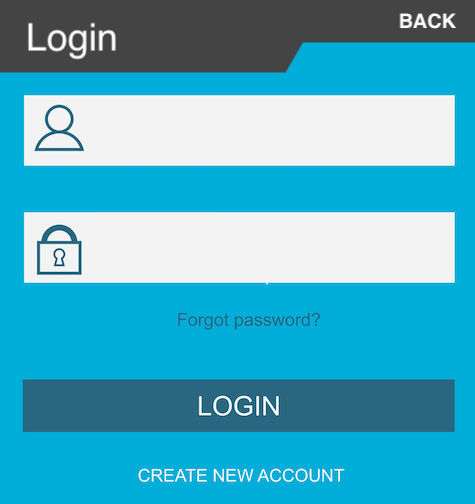
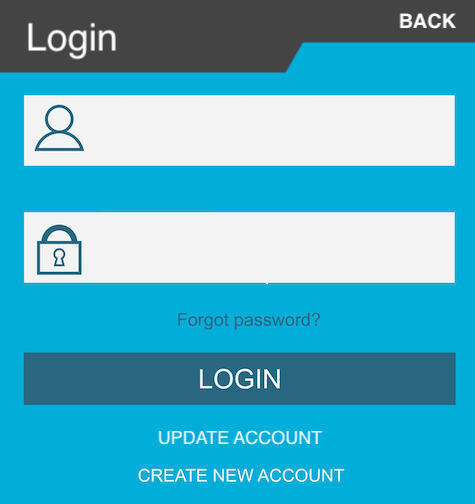
create update account menu, blit entity information on side of map

Changed region(s): [[0.0295, 0.6845, 0.9726, 0.8929]]

diff --git a/game_view.py b/game_view.py
@@ -56,13 +56,13 @@ def login_function():
     main_menu.disable()
     main_menu.reset(1)
 
-    email = pygame_textinput.TextInput()
+    username = pygame_textinput.TextInput()
     password = pygame_textinput.TextInput()
     login_view = pygame.image.load("images/menu/login-copy.png")
     surface.fill(COLOR_BACKGROUND)
     
 
-    selected = "email"
+    selected = "username"
     
     while True:
         # Clock tick
@@ -85,19 +85,29 @@ def login_function():
                 mouse_pos = pygame.mouse.get_pos()
                 print(mouse_pos)
                 if mouse_pos[0] in range(190,610) and mouse_pos[1] in range(148,210):
-                    selected = "email"
+                    selected = "username"
                 elif mouse_pos[0] in range(190,610) and mouse_pos[1] in range(266,322):
                     selected = "password"
                 elif mouse_pos[0] in range(300,530) and mouse_pos[1] in range(517,530):
+                    # create an account screen
                     create_new_account()
                     return
                 elif mouse_pos[0] in range(335,480) and mouse_pos[1] in range(360,375):
+                    # forget your password screen
                     forgot_password()
                     return
-                elif mouse_pos[0] in range(186,612) and mouse_pos[1] in range(430,477):
-                    login()
+                elif mouse_pos[0] in range(320,482) and mouse_pos[1] in range(477,490):
+                    # change your account info screen
+                    update_account()
+                    return
+                elif mouse_pos[0] in range(186,612) and mouse_pos[1] in range(400,450):
+                    # login
+                    if len(username.get_text()) < 1 or len(password.get_text()) < 1:
+                        break
+                    login(username = username.get_text(), password = password.get_text())
                     return
                 elif mouse_pos[0] in range(562,617) and mouse_pos[1] in range(62,77):
+                    # go back
                     main_menu.enable()
                     main_menu.mainloop(playevents)
                     return
@@ -109,16 +119,16 @@ def login_function():
                 #     surface.fill(COLOR_BACKGROUND)
 
         
-        if selected == "email":
-            email.update(playevents)   
+        if selected == "username":
+            username.update(playevents)   
         elif selected == "password":
             password.update(playevents, passProtect=True)
             
         surface.blit(login_view, ((WINDOW_SIZE[0] - login_view.get_size()[0]) / 2, (WINDOW_SIZE[1] - login_view.get_size()[1]) / 2))
-        if len(email.get_text()) >= 1:
-            surface.blit(email.get_surface(), (250,170))  
+        if len(username.get_text()) >= 1:
+            surface.blit(username.get_surface(), (250,170))  
         else:
-            surface.blit(MY_FONT.render('Email', 1, COLOR_BLACK), (250,160))  
+            surface.blit(MY_FONT.render('Username', 1, COLOR_BLACK), (250,160))  
         if len(password.get_text()) >= 1:
             surface.blit(password.get_surface(), (250,290))
         else:
@@ -167,9 +177,13 @@ def create_new_account():
                 elif mouse_pos[0] in range(190,610) and mouse_pos[1] in range(330,392):
                     selected = "password"
                 elif mouse_pos[0] in range(186,612) and mouse_pos[1] in range(430,477):
-                    login()
+                    # account creation
+                    if len(email.get_text()) < 1 or len(username.get_text()) < 1 or len(password.get_text()) < 1:
+                        break
+                    login(username = username.get_text(), email = email.get_text(), password = password.get_text())
                     return
                 elif mouse_pos[0] in range(562,617) and mouse_pos[1] in range(62,77):
+                    # go back
                     login_function()
                     return
         
@@ -220,9 +234,13 @@ def forgot_password():
                 mouse_pos = pygame.mouse.get_pos()
                 print(mouse_pos)
                 if mouse_pos[0] in range(186,612) and mouse_pos[1] in range(430,477):
-                    send_recovery_email()
+                    # recover email
+                    if len(email.get_text()) < 1:
+                        break
+                    send_recovery_email(email = email.get_text())
                     return
                 elif mouse_pos[0] in range(562,617) and mouse_pos[1] in range(62,77):
+                    # go back
                     login_function()
                     return
         
@@ -238,11 +256,94 @@ def forgot_password():
 
     return
 
+def update_account():
+    """
+    Create new account game function
+    
+    :return: None
+    """
 
-def login():
+    email = pygame_textinput.TextInput()
+    username = pygame_textinput.TextInput()
+    password = pygame_textinput.TextInput()
+    login_view = pygame.image.load("images/menu/update-account.png")
+    surface.fill(COLOR_BACKGROUND)
+
+    selected = "email"
+    
+    while True:
+        # Clock tick
+        clock.tick(60)
+
+        # Application events
+        playevents = pygame.event.get()
+
+        for e in playevents:
+            if e.type == QUIT:
+                exit()
+            elif e.type == KEYDOWN:
+                if e.key == K_ESCAPE and main_menu.is_disabled():
+                    login_function()
+                    return
+            elif e.type == MOUSEBUTTONDOWN:
+                mouse_pos = pygame.mouse.get_pos()
+                print(mouse_pos)
+                if mouse_pos[0] in range(190,610) and mouse_pos[1] in range(148,210):
+                    selected = "email"
+                elif mouse_pos[0] in range(190,610) and mouse_pos[1] in range(235,298):
+                    selected = "username"
+                elif mouse_pos[0] in range(190,610) and mouse_pos[1] in range(330,392):
+                    selected = "password"
+                elif mouse_pos[0] in range(186,612) and mouse_pos[1] in range(430,477):
+                    # update account
+                    if len(email.get_text()) < 1 or len(username.get_text()) < 1 or len(password.get_text()) < 1:
+                        break
+                    update_account_information(username = username.get_text(), email = email.get_text(), password = password.get_text())
+                    return
+                elif mouse_pos[0] in range(562,617) and mouse_pos[1] in range(62,77):
+                    # go back
+                    login_function()
+                    return
+        
+        if selected == "email":
+            email.update(playevents)   
+        elif selected == "username":
+            username.update(playevents)   
+        elif selected == "password":
+            password.update(playevents, passProtect=True)
+            
+        surface.blit(login_view, ((WINDOW_SIZE[0] - login_view.get_size()[0]) / 2, (WINDOW_SIZE[1] - login_view.get_size()[1]) / 2))
+        if len(email.get_text()) >= 1:
+            surface.blit(email.get_surface(), (250,170))  
+        else:
+            surface.blit(MY_FONT.render('Email', 1, COLOR_BLACK), (250,160))  
+        if len(username.get_text()) >= 1:
+            surface.blit(username.get_surface(), (250,257))  
+        else:
+            surface.blit(MY_FONT.render('Username', 1, COLOR_BLACK), (250,247))  
+        if len(password.get_text()) >= 1:
+            surface.blit(password.get_surface(), (250,352))
+        else:
+            surface.blit(MY_FONT.render('Password', 1, COLOR_BLACK), (250,342))  
+        pygame.display.flip()
+
     return
 
-def send_recovery_email():
+
+def login(username, password, email=None):
+    print("username", username)
+    print("email", email)
+    print("password", password)
+    return
+
+def update_account_information(username, password, email):
+    print("username", username)
+    print("email", email)
+    print("password", password)
+    return
+
+def send_recovery_email(email):
+    print("email", email)
     return
 
 def main_background():

diff --git a/tileset_basics.py b/tileset_basics.py
@@ -3,6 +3,8 @@ from pygame.locals import *
 from game_engine.map import Map
 import os
 import math
+import re
+
 
 # sources for examples:
 # http://usingpython.com/pygame-tilemaps/
@@ -17,12 +19,29 @@ class Entity:
         self.y = y
         self.name = name
         self.actions = actions
+        self.attributes = ["example attributes", "example 2", "example 3"]
+
+    def __str__(self):
+        return  "Entity:\nName: "+self.name+"\nwidth: "+str(self.width)+"\nheight: "+str(self.height)+"\nx: "+ str(self.x)+ "\ny: " + str(self.y) +"\nactions: "+str(self.actions)+"\nattributes: "+str(self.attributes)
+
+
+def offset_blit(x,y):
+    return (x+MAPOFFSET[0],y+MAPOFFSET[1])
 
 def which_tile(mousepos):
     return math.ceil(mousepos[1]/myMap.tilesize)-1, math.ceil(mousepos[0]/myMap.tilesize)-1
 
 def tile_location(size):
     return size[1]*myMap.tilesize, size[0]*myMap.tilesize
+
+def multi_line_blit(text):
+    label = []
+    text = re.split(',|\[|\]|\n',text)
+    for i in range(len(text)): 
+        label.append(MY_FONT.render(text[i], True, (255,255,255)))
+    for line in range(len(label)):
+        DISPLAYSURF.blit(label[line],(0,(line*label[line].get_height())))
+    return
 
 def make_popup(x, y, entity):
     global OLD_SURF
@@ -40,13 +59,17 @@ def make_popup(x, y, entity):
         if (local_width>width):
             width = local_width
     popupSurf = pygame.Surface((width+4,height*len(options)))
-    DISPLAYSURF.blit(popupSurf, (x,y))    
+    DISPLAYSURF.blit(popupSurf, offset_blit(x,y))    
     for i in range(len(textSurf)):
-        DISPLAYSURF.blit(textSurf[i], (x+2,y+(height*i)))
+        DISPLAYSURF.blit(textSurf[i], offset_blit(x+2,y+(height*i)))
 
     # draw rectangle surrounding the actual box
     left, top = tile_location((entity.x, entity.y))
+    left, top = offset_blit(left, top)
     pygame.draw.lines(DISPLAYSURF, (255,0,0), True, [(left, top), (left+entity.width*myMap.tilesize, top), (left+entity.width*myMap.tilesize, top+entity.height*myMap.tilesize), (left, top+entity.height*myMap.tilesize)], 3)
+
+    # entity information
+    multi_line_blit(str(entity))
 
     return (popupSurf.get_width(), popupSurf.get_height()), (x,y)
 
@@ -61,18 +84,20 @@ for p in pictures:
     textures[p] = pygame.image.load("images/textures/"+p)
 
 # create the map and add add textures to it
-myMap = Map(tilesize = 40, height = 15, width = 25)
+myMap = Map(tilesize = 50, height = 10, width = 18)
 
-# myMap.textures = [Map.Texture(0,0,1,1,"coal.png"),Map.Texture(5,5,2,2,"water.png"),Map.Texture(2,2,1,1,"rock.png"),Map.Texture(2,3,1,1,"rock.png")]
-myMap.textures = [Entity(0,0,1,1,"coal.png",["Attack","Defend"]),Entity(5,5,2,2,"water.png",["Attack","Defend"]),Entity(2,2,1,1,"rock.png",["Sit"]),Entity(2,3,1,1,"rock.png",["Defend"])]
+myMap.textures = [Map.Texture(3,3,1,1,"coal.png"),Map.Texture(3,4,1,1,"coal.png")]
+ENTITIES = [Entity(5,5,2,2,"water.png",["Attack","Defend"]),Entity(2,2,1,1,"rock.png",["Sit"]),Entity(2,3,1,1,"rock.png",["Defend"])]
+
 #example fog
-myMap.fogOfWar[12][15] = False
-myMap.fogOfWar[12][16] = False
-myMap.fogOfWar[13][15] = False
-myMap.fogOfWar[13][16] = False
+myMap.fogOfWar[8][15] = False
+myMap.fogOfWar[8][16] = False
+myMap.fogOfWar[9][15] = False
+myMap.fogOfWar[9][16] = False
 
 pygame.init()
-DISPLAYSURF = pygame.display.set_mode((myMap.width*myMap.tilesize, myMap.height*myMap.tilesize))
+DISPLAYSURF = pygame.display.set_mode((1300,750))
+MAPOFFSET = (200,0)
 
 # create the entire background
 greyImage = pygame.transform.scale(textures["grey.png"], (myMap.tilesize,myMap.tilesize))
@@ -80,14 +105,19 @@ fogImage = pygame.transform.scale(textures["fog.png"], (myMap.tilesize,myMap.til
 for rw in range(myMap.height):
     for cl in range(myMap.width):
         if myMap.fogOfWar[rw][cl]:
-            DISPLAYSURF.blit(greyImage, (cl*myMap.tilesize, rw*myMap.tilesize))
+            DISPLAYSURF.blit(greyImage, offset_blit(cl*myMap.tilesize, rw*myMap.tilesize))
         else: 
-            DISPLAYSURF.blit(fogImage, (cl*myMap.tilesize, rw*myMap.tilesize))
+            DISPLAYSURF.blit(fogImage, offset_blit(cl*myMap.tilesize, rw*myMap.tilesize))
+
+# put all the textures on the map
+for texture in myMap.textures:
+    texture_image = pygame.transform.scale(textures[texture.name], (texture.width*myMap.tilesize,texture.height*myMap.tilesize))
+    DISPLAYSURF.blit(texture_image, offset_blit(texture.y*myMap.tilesize, texture.x*myMap.tilesize))
 
 # put all the entities on the map
-for entity in myMap.textures:
+for entity in ENTITIES:
     entity_image = pygame.transform.scale(textures[entity.name], (entity.width*myMap.tilesize,entity.height*myMap.tilesize))
-    DISPLAYSURF.blit(entity_image, (entity.y*myMap.tilesize, entity.x*myMap.tilesize))
+    DISPLAYSURF.blit(entity_image, offset_blit(entity.y*myMap.tilesize, entity.x*myMap.tilesize))
 
 MY_FONT = pygame.font.SysFont('arial', 25)
 OLD_SURF = None
@@ -102,6 +132,7 @@ if __name__ == "__main__":
                 sys.exit()
             elif event.type == MOUSEBUTTONDOWN:
                 mousepos = pygame.mouse.get_pos()
+                mousepos = (mousepos[0]-MAPOFFSET[0],mousepos[1]-MAPOFFSET[1])
                 if entity is not None:
                     remove_previous_popup()
                     if mousepos[0] in range(location[0],location[0]+size[0]) and mousepos[1] in range(location[1],location[1]+size[1]):
@@ -112,7 +143,7 @@ if __name__ == "__main__":
                     entity = None
                 else:
                     x, y = which_tile(mousepos)
-                    for e in myMap.textures:
+                    for e in ENTITIES:
                         if x in range(e.x,e.x+e.width) and y in range(e.y,e.y+e.height):
                             entity = e
                             break
